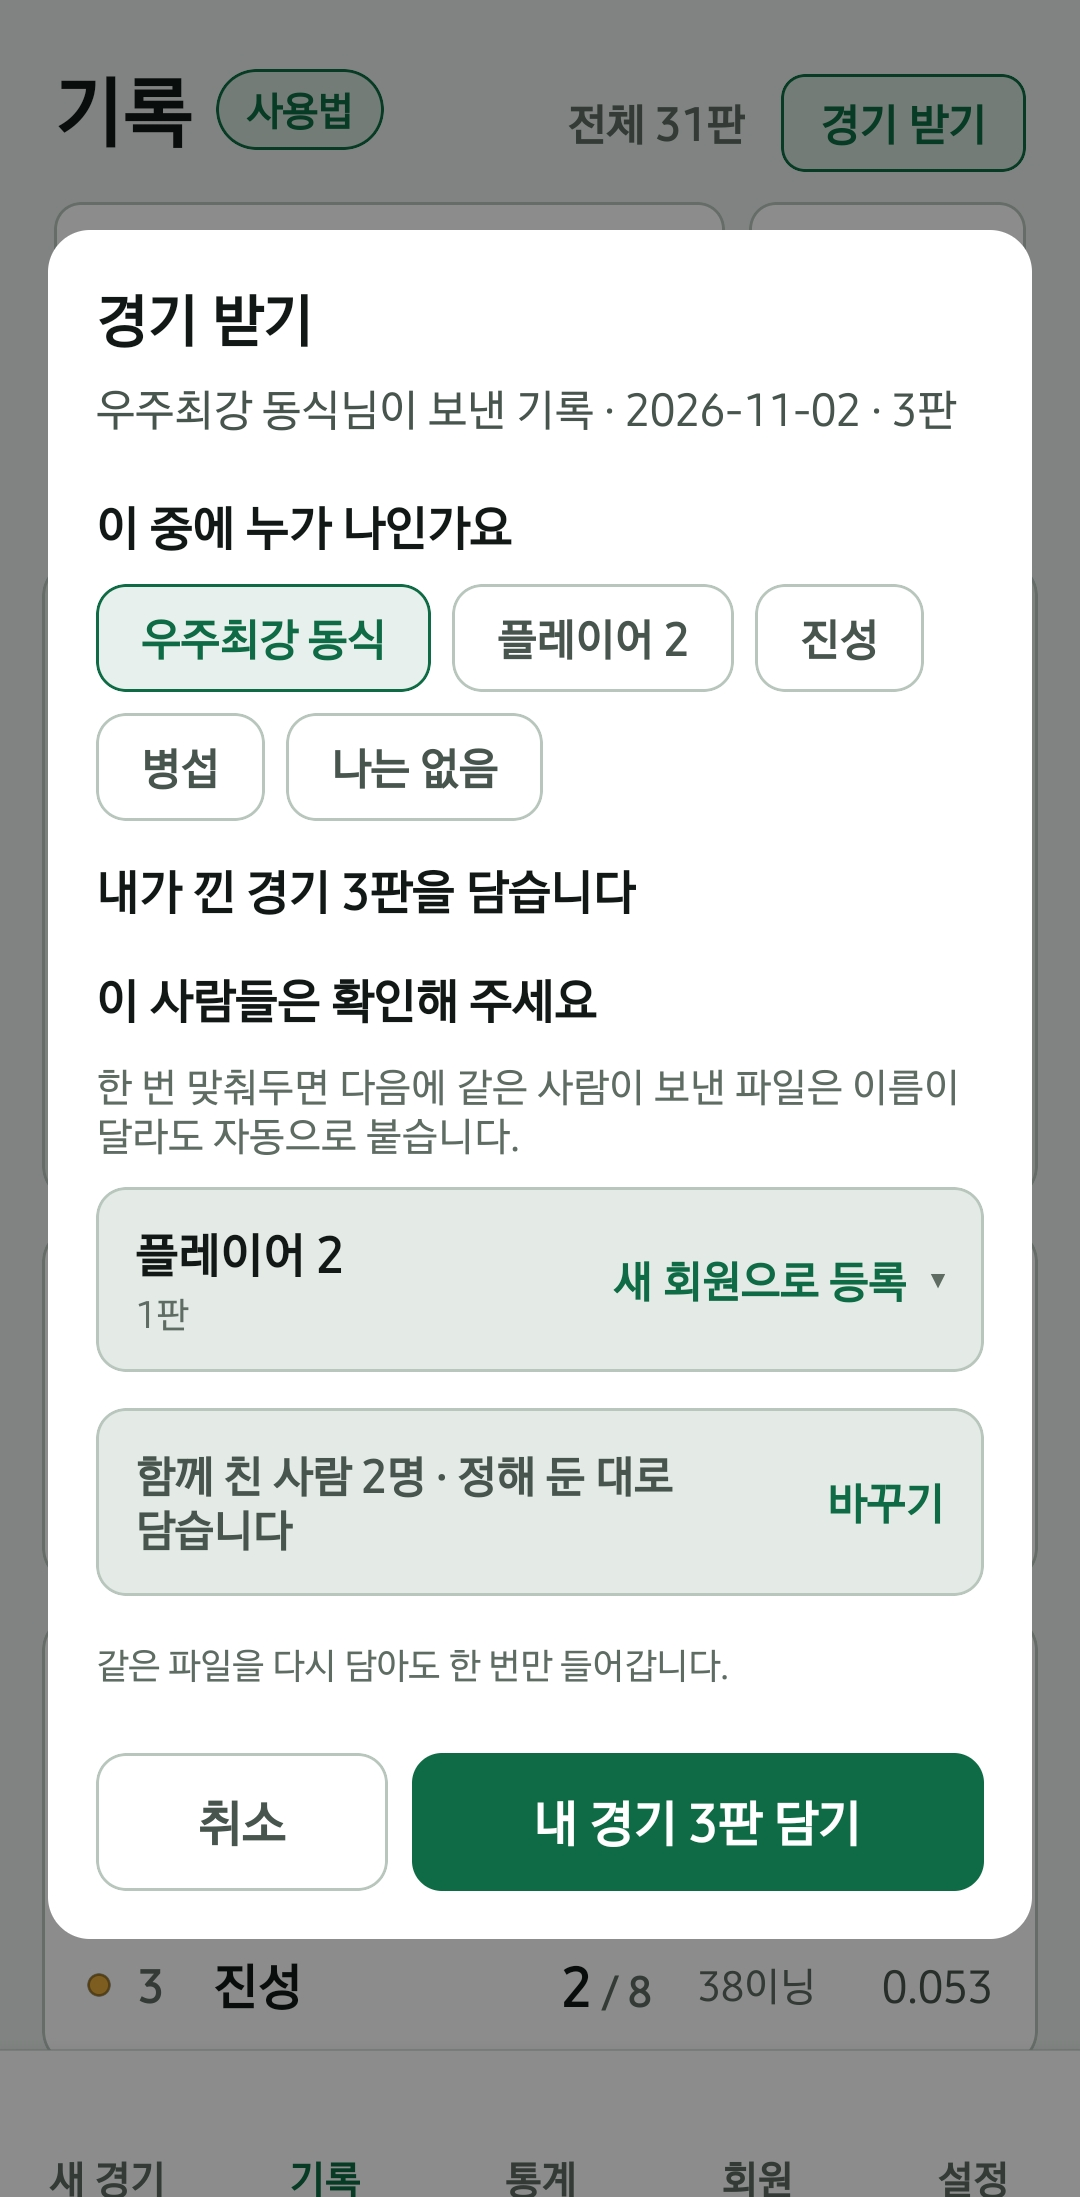
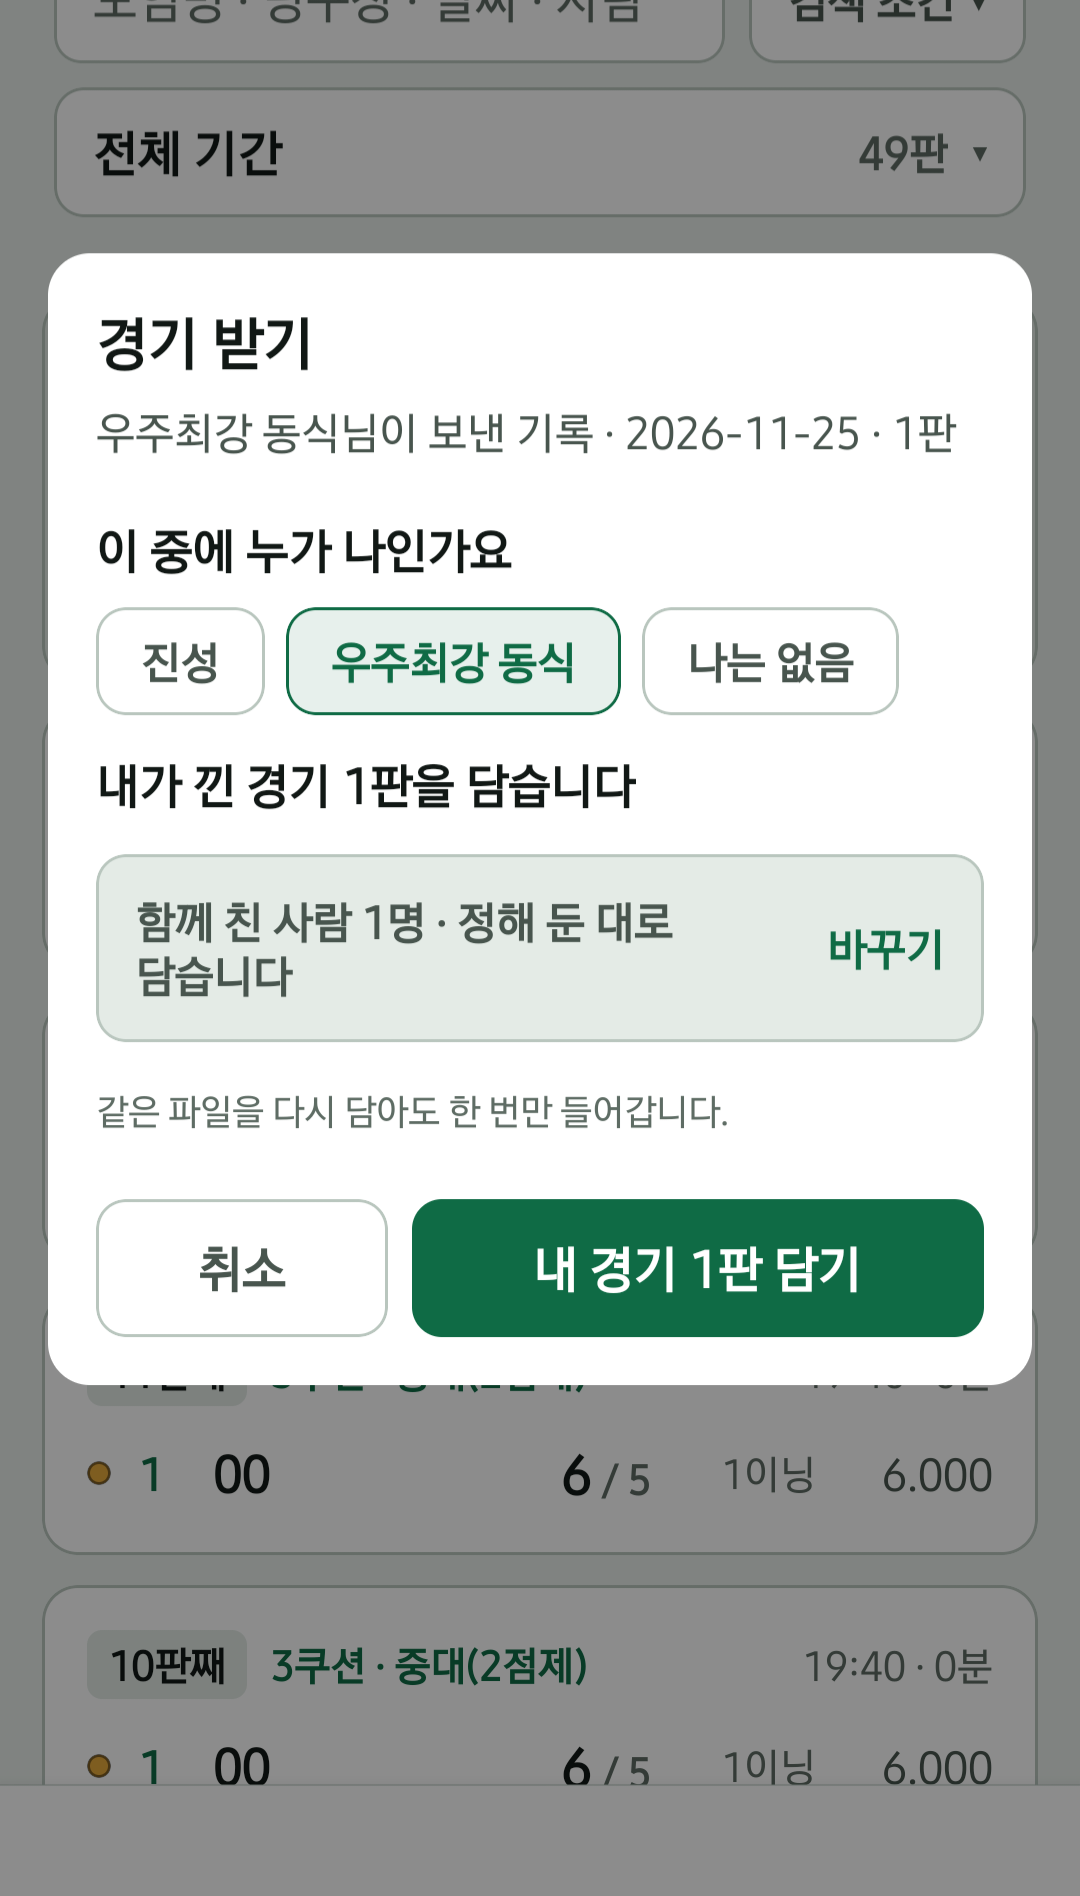
에버보드 사이트 — 카톡으로 받은 기록 파일 여는 법: 안드로이드 사진 세 장 · 아이폰 사진 두 장 (share.html)

diff --git a/everboard/share.html b/everboard/share.html
@@ -5,7 +5,7 @@
 <title>당구 모임 기록 나눠 갖기 · 기록 보내기와 경기 받기, QR — 에버보드</title><meta name="description" content="한 폰으로 친 당구 모임 기록을 단톡방 파일이나 QR로 보내 각자의 앱에 담는 방법. 기록 보내기, 경기 받기, QR 찍기, 성적표와 백업의 차이를 안내합니다."><link rel="canonical" href="https://lds77.github.io/billiards/everboard/share.html">
 <meta property="og:type" content="website"><meta property="og:locale" content="ko_KR"><meta property="og:site_name" content="에버보드"><meta property="og:title" content="당구 모임 기록 나눠 갖기 · 기록 보내기와 경기 받기, QR — 에버보드"><meta property="og:description" content="한 폰으로 친 당구 모임 기록을 단톡방 파일이나 QR로 보내 각자의 앱에 담는 방법. 기록 보내기, 경기 받기, QR 찍기, 성적표와 백업의 차이를 안내합니다."><meta property="og:url" content="https://lds77.github.io/billiards/everboard/share.html"><meta property="og:image" content="https://lds77.github.io/billiards/everboard/assets/social.png"><meta property="og:image:width" content="1200"><meta property="og:image:height" content="630"><meta property="og:image:alt" content="에버보드 — 한 판의 점수에서, 나만의 기록으로"><meta name="twitter:card" content="summary_large_image">
 <link rel="icon" type="image/png" sizes="96x96" href="assets/icon-96.png"><link rel="apple-touch-icon" href="assets/icon-180.png"><link rel="alternate" type="application/rss+xml" title="에버보드 안내" href="feed.xml"><link rel="stylesheet" href="style.css"><script src="site.js" defer></script>
-<script type="application/ld+json">{"@context":"https://schema.org","@type":"WebPage","name":"당구 모임 기록 나눠 갖기 · 기록 보내기와 경기 받기, QR — 에버보드","description":"한 폰으로 친 당구 모임 기록을 단톡방 파일이나 QR로 보내 각자의 앱에 담는 방법. 기록 보내기, 경기 받기, QR 찍기, 성적표와 백업의 차이를 안내합니다.","url":"https://lds77.github.io/billiards/everboard/share.html","inLanguage":"ko","dateModified":"2026-11-20","isPartOf":{"@type":"WebSite","name":"에버보드","url":"https://lds77.github.io/billiards/everboard/"}}</script>
+<script type="application/ld+json">{"@context":"https://schema.org","@type":"WebPage","name":"당구 모임 기록 나눠 갖기 · 기록 보내기와 경기 받기, QR — 에버보드","description":"한 폰으로 친 당구 모임 기록을 단톡방 파일이나 QR로 보내 각자의 앱에 담는 방법. 기록 보내기, 경기 받기, QR 찍기, 성적표와 백업의 차이를 안내합니다.","url":"https://lds77.github.io/billiards/everboard/share.html","inLanguage":"ko","dateModified":"2026-11-26","isPartOf":{"@type":"WebSite","name":"에버보드","url":"https://lds77.github.io/billiards/everboard/"}}</script>
 <script type="application/ld+json">{"@context":"https://schema.org","@type":"BreadcrumbList","itemListElement":[{"@type":"ListItem","position":1,"name":"에버보드","item":"https://lds77.github.io/billiards/everboard/"},{"@type":"ListItem","position":2,"name":"기록 보내기 · 경기 받기 · QR · 사람 맞추기","item":"https://lds77.github.io/billiards/everboard/share.html"}]}</script>
 </head><body>
 <a class="skip-link" href="#main">본문으로 바로가기</a>
@@ -17,7 +17,7 @@
     <div class="wrap article-layout"><nav class="article-toc" aria-label="이 페이지의 목차"><span>이 페이지에서</span><a href="#send">기록 보내기</a><a href="#receive">경기 받기</a><a href="#qr">QR로 주고받기</a><a href="#match">이름 맞추기</a><a href="#difference">성적표·백업과 차이</a></nav><article class="article-body">
 <div class="article-intro"><p>넷이 쳐도 점수판은 폰 하나로 봅니다. 그날 기록은 그 폰에만 남으므로, 나머지 사람의 에버리지에는 잡히지 않습니다. 기록 주고받기는 이 기록을 각자의 폰에 담는 기능이며 무료입니다. 단톡방에 파일로 올려도 되고, 옆에 있으면 QR로 바로 넘겨도 됩니다.</p><aside class="note">받는 사람도 에버보드가 설치되어 있어야 합니다. 앱이 없는 분이 있다면 기록 탭 맨 위 <strong>사용법</strong>에서 설치 안내를 따로 보낼 수 있습니다.</aside></div>
 <section id="send"><h2>1. 점수판을 켠 사람: 기록 보내기</h2><div class="article-split"><div><ol><li>앱 하단의 <strong>기록</strong> 탭을 엽니다.</li><li>보낼 모임에서 <strong>기록 보내기</strong>를 누릅니다.</li><li><strong>파일로 보내기</strong>를 고르고, 공유 화면에서 단톡방을 고릅니다. 모임의 경기가 파일 하나로 올라갑니다.</li></ol><p>같이 친 사람이 옆에 있다면 <strong>QR로 보내기</strong>를 골라도 됩니다. <a href="#qr">QR로 주고받기</a>를 참고하세요.</p></div><figure class="article-phone"><img class="" src="assets/send-choice.png" alt="기록 보내기를 누르면 뜨는 선택 창. 취소, 파일로 보내기, QR로 보내기 버튼이 있습니다." width="1080" height="2316" loading="lazy" decoding="async"><figcaption>기록 보내기 · 보내는 방법 고르기</figcaption></figure></div></section>
-<section id="receive"><h2>2. 나머지 사람: 파일을 눌러 에버보드로</h2><div class="article-split"><div><ol><li>단톡방의 파일을 누르고 <strong>열기</strong>에서 <strong>에버보드</strong>를 고릅니다. 아이폰은 <strong>열기</strong>를 누른 다음 오른쪽 아래 <strong>공유 버튼</strong>에서 에버보드를 고릅니다.</li><li>에버보드가 열리며 <strong>경기 받기</strong> 창이 바로 뜹니다.</li><li><strong>이 중에 누가 나인가요</strong>에서 내 이름을 짚습니다.</li><li><strong>내 경기 N판 담기</strong>를 누릅니다.</li></ol><p>내가 낀 경기만 담는 것이 기본이고, 모임 전체를 담도록 바꿀 수도 있습니다. 담은 경기는 내 에버리지와 상대 전적에 반영됩니다.</p><p>목록에 에버보드가 없으면 파일을 폰에 저장한 뒤, 에버보드 <strong>기록</strong> 탭 오른쪽 위의 <strong>경기 받기</strong>에서 <strong>파일에서 고르기</strong>를 눌러 그 파일을 고르세요.</p></div><figure class="article-phone"><img class="" src="assets/import-games.png" alt="경기 받기 화면. 이 중에 누가 나인가요에서 내 이름을 짚고 내 경기 담기를 누릅니다." width="1080" height="2197" loading="lazy" decoding="async"><figcaption>경기 받기 화면</figcaption></figure></div></section>
+<section id="receive"><h2>2. 나머지 사람: 파일을 눌러 에버보드로</h2><p>단톡방에 올라온 파일을 눌러 에버보드로 열면 끝입니다. 파일을 따로 저장하거나 찾을 필요가 없습니다.</p><h3>안드로이드</h3><ol><li>단톡방의 파일을 누르면 파일 화면이 뜹니다. 아래 노란 <strong>열기</strong>를 누릅니다.</li><li><strong>연결 프로그램</strong>에서 <strong>에버보드</strong>를 누르고 <strong>한 번만</strong>을 누릅니다. <strong>항상</strong>을 누르면 다음부터는 이 단계 없이 바로 에버보드로 열립니다.</li><li>에버보드가 열리며 <strong>경기 받기</strong> 창이 뜹니다. <strong>이 중에 누가 나인가요</strong>에서 내 이름을 짚고 <strong>내 경기 N판 담기</strong>를 누릅니다.</li></ol><div class="phone-steps"><figure><img class="" src="assets/kakao-open.png" alt="카카오톡에서 받은 에버보드 경기기록 파일 화면. 아래에 노란 열기 버튼이 있습니다." width="1080" height="1896" loading="lazy" decoding="async"><figcaption><b>1</b>파일을 눌러 <strong>열기</strong></figcaption></figure><figure><img class="" src="assets/kakao-openwith.png" alt="연결 프로그램 창. 에버보드를 누르고 아래 한 번만 또는 항상을 누릅니다." width="1080" height="1896" loading="lazy" decoding="async"><figcaption><b>2</b><strong>에버보드</strong> → <strong>한 번만</strong></figcaption></figure><figure><img class="" src="assets/import-games.png" alt="에버보드의 경기 받기 창. 이 중에 누가 나인가요에서 내 이름을 짚고 내 경기 1판 담기를 누릅니다." width="1080" height="1896" loading="lazy" decoding="async"><figcaption><b>3</b>내 이름 → <strong>담기</strong></figcaption></figure></div><p class="phone-steps-note">휴대폰마다 화면 모양이 조금 다를 수 있습니다. 연결 프로그램 목록에는 에버보드 말고 다른 앱도 함께 보입니다.</p><h3>아이폰</h3><ol><li>단톡방의 파일을 누르면 파일 화면이 뜹니다. 오른쪽 아래 <strong>공유 버튼</strong>을 누릅니다.</li><li>뜨는 목록에서 <strong>에버보드</strong>를 누릅니다. 첫 줄에 없으면 앱 줄을 옆으로 밀어 끝의 <strong>더 보기</strong>에서 찾습니다. 한 번 쓰고 나면 다음부터는 앞쪽에 뜹니다.</li><li>에버보드가 열리며 <strong>경기 받기</strong> 창이 뜹니다. 그다음은 안드로이드와 같습니다.</li></ol><div class="phone-steps"><figure><img class="" src="assets/kakao-ios-share.jpg" alt="아이폰 카카오톡에서 받은 에버보드 경기기록 파일 화면. 오른쪽 아래에 공유 버튼이 있습니다." width="1080" height="1896" loading="lazy" decoding="async"><figcaption><b>1</b>파일을 눌러 오른쪽 아래 <strong>공유 버튼</strong></figcaption></figure><figure><img class="" src="assets/kakao-ios-pick.jpg" alt="아이폰 공유 목록. 앱 줄에서 에버보드를 누릅니다." width="1080" height="1896" loading="lazy" decoding="async"><figcaption><b>2</b>목록에서 <strong>에버보드</strong></figcaption></figure></div><p class="phone-steps-note">대화방에서 파일 옆의 공유 버튼을 바로 눌러도 같은 목록이 뜹니다. 파일 화면에서 <strong>열기</strong>를 눌렀다면 열린 화면 오른쪽 아래의 공유 버튼에서 같은 목록이 뜹니다.</p><p>내가 낀 경기만 담는 것이 기본이고, 모임 전체를 담도록 바꿀 수도 있습니다. 담은 경기는 내 에버리지와 상대 전적에 반영됩니다.</p><p>목록에 에버보드가 없으면 파일을 폰에 저장한 뒤, 에버보드 <strong>기록</strong> 탭 오른쪽 위의 <strong>경기 받기</strong>에서 <strong>파일에서 고르기</strong>를 눌러 그 파일을 고르세요.</p></section>
 <section id="qr"><h2>3. 옆에 있으면 QR로 주고받기</h2><p>카톡을 쓰지 않는 폰이나 단톡방이 없는 자리에서도, 보내는 폰에 띄운 QR을 찍어 바로 담을 수 있습니다. <strong>보내는 폰과 받는 폰 모두 인터넷이 연결되어 있어야 합니다.</strong></p><h3>보내는 사람</h3><div class="article-split"><div><ol><li>기록 탭에서 보낼 모임의 <strong>기록 보내기</strong>를 누릅니다. 한 판만 보내려면 그 경기 상세 화면의 <strong>보내기</strong>를 누릅니다.</li><li><strong>QR로 보내기</strong>를 고르면 화면에 QR이 뜹니다.</li><li>받을 사람들이 차례로 찍을 때까지 이 화면을 띄워 둡니다. QR이 떠 있는 동안 화면은 꺼지지 않습니다.</li></ol><p>QR은 최대 30분 동안 쓸 수 있습니다. 창을 닫으면 앱이 맡긴 기록을 지우므로 <strong>다 받았는지 확인한 뒤에 닫으세요.</strong></p></div><figure class="article-phone"><img class="" src="assets/qr-send.png" alt="QR로 보내기 화면. 이 모임 경기 3판의 QR과 받는 방법, 29분 남음이 보입니다." width="1080" height="2197" loading="lazy" decoding="async"><figcaption>QR로 보내기 화면</figcaption></figure></div><h3>받는 사람</h3><div class="article-split"><div><ol><li>기록 탭 오른쪽 위의 <strong>경기 받기</strong>를 누릅니다.</li><li><strong>QR 찍기</strong>를 고릅니다. 처음 한 번은 카메라 사용을 허용합니다.</li><li>보내는 폰의 QR을 네모 안에 비춥니다.</li><li><strong>경기 받기</strong> 창이 뜨면 파일로 받을 때처럼 내 이름을 짚고 담습니다.</li></ol><p>휴대폰의 기본 카메라가 아니라 에버보드의 <strong>QR 찍기</strong>로 찍어야 합니다.</p></div><figure class="article-phone"><img class="" src="assets/receive-choice.png" alt="경기 받기를 누르면 뜨는 선택 창. 취소, 파일에서 고르기, QR 찍기 버튼이 있습니다." width="1080" height="2316" loading="lazy" decoding="async"><figcaption>경기 받기 · QR 찍기</figcaption></figure></div><aside class="note">고른 기록은 보내는 폰에서 암호화되어 인터넷에 잠깐 맡겨지고, 푸는 열쇠는 화면의 QR에만 있습니다. 개발자도 내용을 볼 수 없습니다. 다만 QR이 떠 있는 동안에는 그 QR을 찍은 사람이면 누구나 받을 수 있으니, 받을 사람에게만 보여 주세요. 자세한 내용은 <a href="https://lds77.github.io/billiards/privacy.html">개인정보처리방침</a>에 있습니다.</aside></section>
 <section id="match"><h2>이름이 폰마다 달라도 되나요?</h2><p>됩니다. 내 폰의 ‘두현’이 다른 폰에서는 ‘본인’일 수 있습니다. 담을 때 <strong>이 사람들은 확인해 주세요</strong>에서 내 회원과 짝을 지어 주면, 다음부터는 같은 사람이 보낸 파일을 이름이 달라도 자동으로 잇습니다.</p><p>같은 파일을 두 번 담아도 경기는 한 번만 들어옵니다. 단톡방에 한 번 올려 두고 각자 편할 때 받으면 됩니다.</p></section>
 <section id="difference"><h2>성적표, 기록 보내기, 백업은 무엇이 다른가요?</h2><div class="table-scroll"><table><caption>보내는 것과 쓰임새</caption><thead><tr><th scope="col">기능</th><th scope="col">보내는 것</th><th scope="col">쓰임새</th></tr></thead><tbody><tr><th scope="row">성적표</th><td>이미지 · 글</td><td>단톡방에서 그날 결과를 봅니다.</td></tr><tr><th scope="row">기록 보내기 · 파일</th><td>모임 경기 파일</td><td>같이 친 사람의 앱에 경기를 담습니다.</td></tr><tr><th scope="row">기록 보내기 · QR</th><td>암호화된 모임 경기</td><td>옆에 있는 사람의 앱에 바로 담습니다.</td></tr><tr><th scope="row">백업</th><td>내 기록 전체 파일</td><td>새 기기로 내 기록을 옮깁니다.</td></tr></tbody></table></div><p>파일은 사용자가 고른 메신저나 저장소로 전달됩니다. QR로 보낼 때만 암호화된 기록이 인터넷에 잠깐 맡겨집니다(받을 수 있는 시간은 최대 30분). 백업은 <a href="backup.html">백업과 복원 안내</a>를 참고하세요.</p><a class="text-link" href="stats.html#together">상대 전적과 모임 성적표 활용하기 <span aria-hidden="true">↗</span></a></section></article></div>

diff --git a/everboard/style.css b/everboard/style.css
@@ -210,3 +210,7 @@ details p a{text-decoration:underline;text-underline-offset:4px;color:var(--gree
 }
 @media(prefers-reduced-motion:reduce){html{scroll-behavior:auto}*,*::before,*::after{transition:none!important;animation:none!important}}
 @media print{.site-header,.site-footer,.article-toc,.related,.download,.skip-link{display:none}.wrap{width:100%}.article-layout{display:block}.article-body{max-width:none}.article-header{padding-top:0}.article-body>section{break-inside:avoid}body{background:#fff;color:#000}a{text-decoration:underline}details>p{display:block}img{max-height:400px;width:auto}}
+
+/* 카톡으로 받은 파일 여는 순서 — 사진 세 장 (2026-11-26) */
+.phone-steps{display:grid;grid-template-columns:repeat(3,minmax(0,200px));gap:22px;margin-block:26px 10px}.phone-steps img{width:100%;height:auto;border-radius:14px;border:1px solid var(--line)}.phone-steps figcaption{margin-top:10px;font-size:14px;line-height:1.45}.phone-steps figcaption b{display:inline-grid;place-items:center;width:22px;height:22px;margin-right:7px;border-radius:50%;background:var(--green);color:var(--white);font-size:12px;vertical-align:1px}.phone-steps-note{font-size:13px;color:var(--muted)}
+@media(max-width:640px){.phone-steps{grid-template-columns:none;grid-auto-flow:column;grid-auto-columns:64%;gap:14px;overflow-x:auto;scroll-snap-type:x mandatory;padding-bottom:8px;-webkit-overflow-scrolling:touch}.phone-steps figure{scroll-snap-align:start}.phone-steps figcaption{font-size:13px}}
